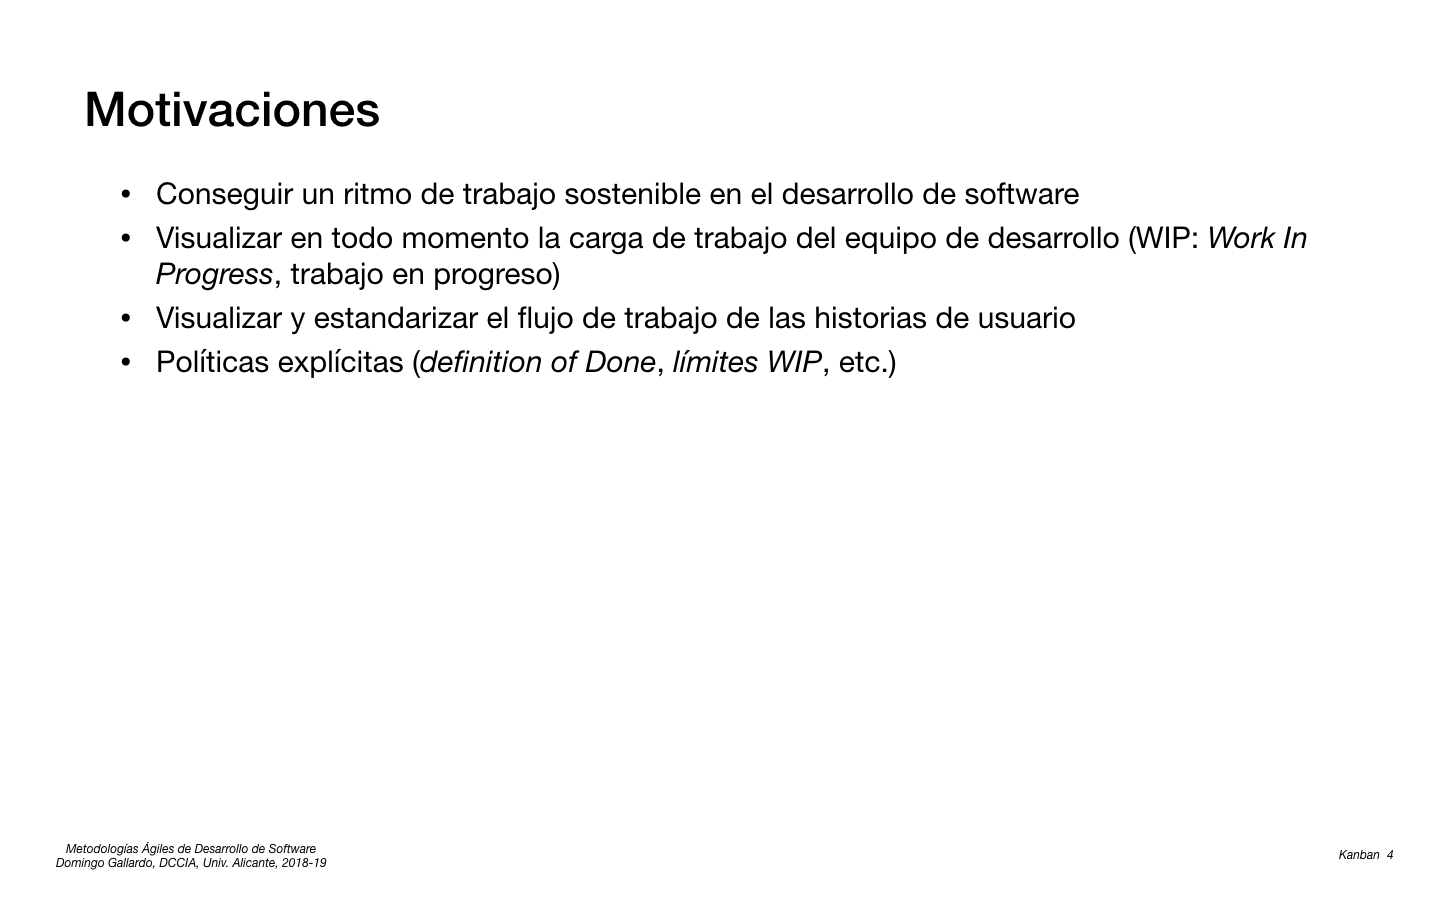
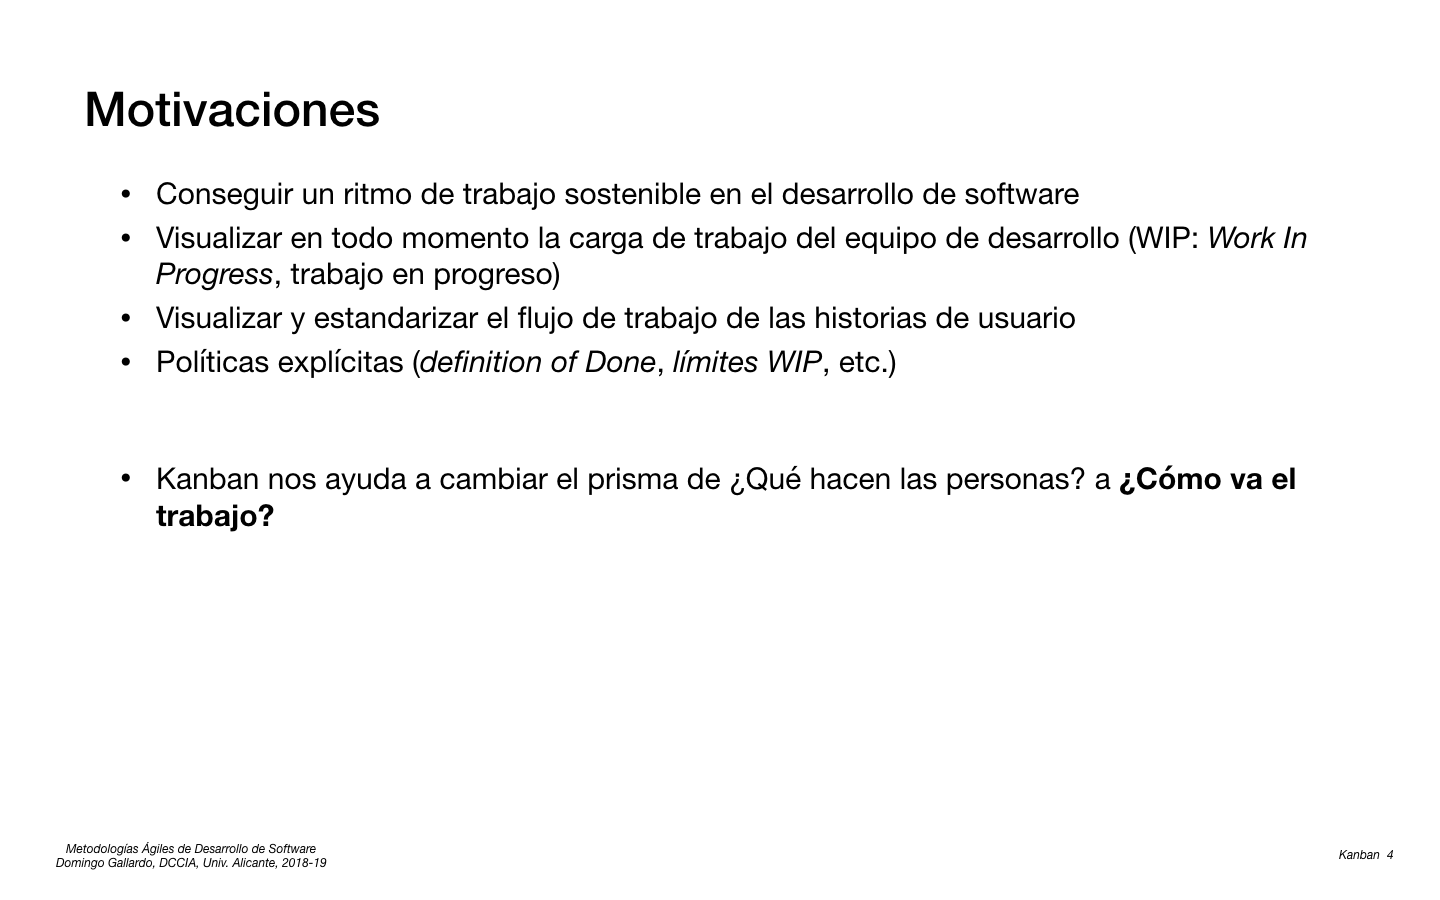
Pequeño cambio ¿cómo va el trabajo?

Changed region(s): [[0.0938, 0.4978, 0.9062, 0.5911]]

diff --git a/sesiones/12-kanban/kanban.md b/sesiones/12-kanban/kanban.md
@@ -7,10 +7,16 @@
 
 <kbd><img src="diapositivas/kanban.003.png" width="800px"></kbd>
 
+<kbd><img src="diapositivas/kanban.004.png" width="800px"></kbd>
+
 - Kanban es un método para **mejorar los procesos** usados por los
   equipos ágiles. Los equipos que usan Kanban empiezan analizando y
   comprendiendo la forma que utilizan para construir el software, y lo
   utilizan para mejorar este proceso.
+  
+- Kanban nos ayuda a ir cambiando el prisma de ¿Qué hacen las
+  personas? a **¿Cómo va el trabajo?**. En la línea de los valores
+  ágiles, Kanban refuerza los valores de **Colaboración** y **Respeto**.
 
 - El objetivo de Kanban es conseguir pequeñas mejoras en el proceso de
   desarrollo, empezando por el sistema que actualmente usa el equipo y
@@ -20,8 +26,6 @@
 - Kanban utiliza elementos de la **metodología _lean_**, como el _lead
   time_ (tiempo de terminación) o el flujo para medir el
   funcionamiento del equipo. 
-
-<kbd><img src="diapositivas/kanban.004.png" width="800px"></kbd>
 
 <kbd><img src="diapositivas/kanban.005.png" width="800px"></kbd>
 
